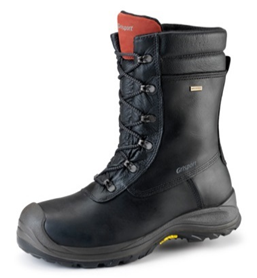
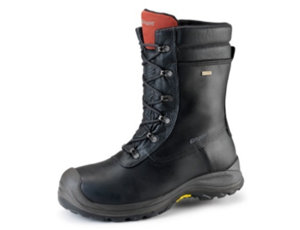
Shoes pictures set

Changed region(s): [[0.0623, 0.0304, 0.965, 0.9739]]

diff --git a/src/components/Shoes.vue b/src/components/Shoes.vue
@@ -985,6 +985,7 @@ footer .copyright {
     border-radius: 15px 15px 0px 0px;
     height: 230px;
     overflow: hidden;
+    background-color: white;
 }
 
 .article-card .card-text{
@@ -995,10 +996,14 @@ footer .copyright {
 .article-card .card-title{
     font-size: 20px;
 }
+/*
 .article-card .card-img-top{
-    /*height: 20vw;*/
     object-fit: cover;
     transition: .5s transform;
+}
+*/
+.article-card .img-fluid{
+    height: 230px;
 }
 
 .article-card .card-img-top:hover{
